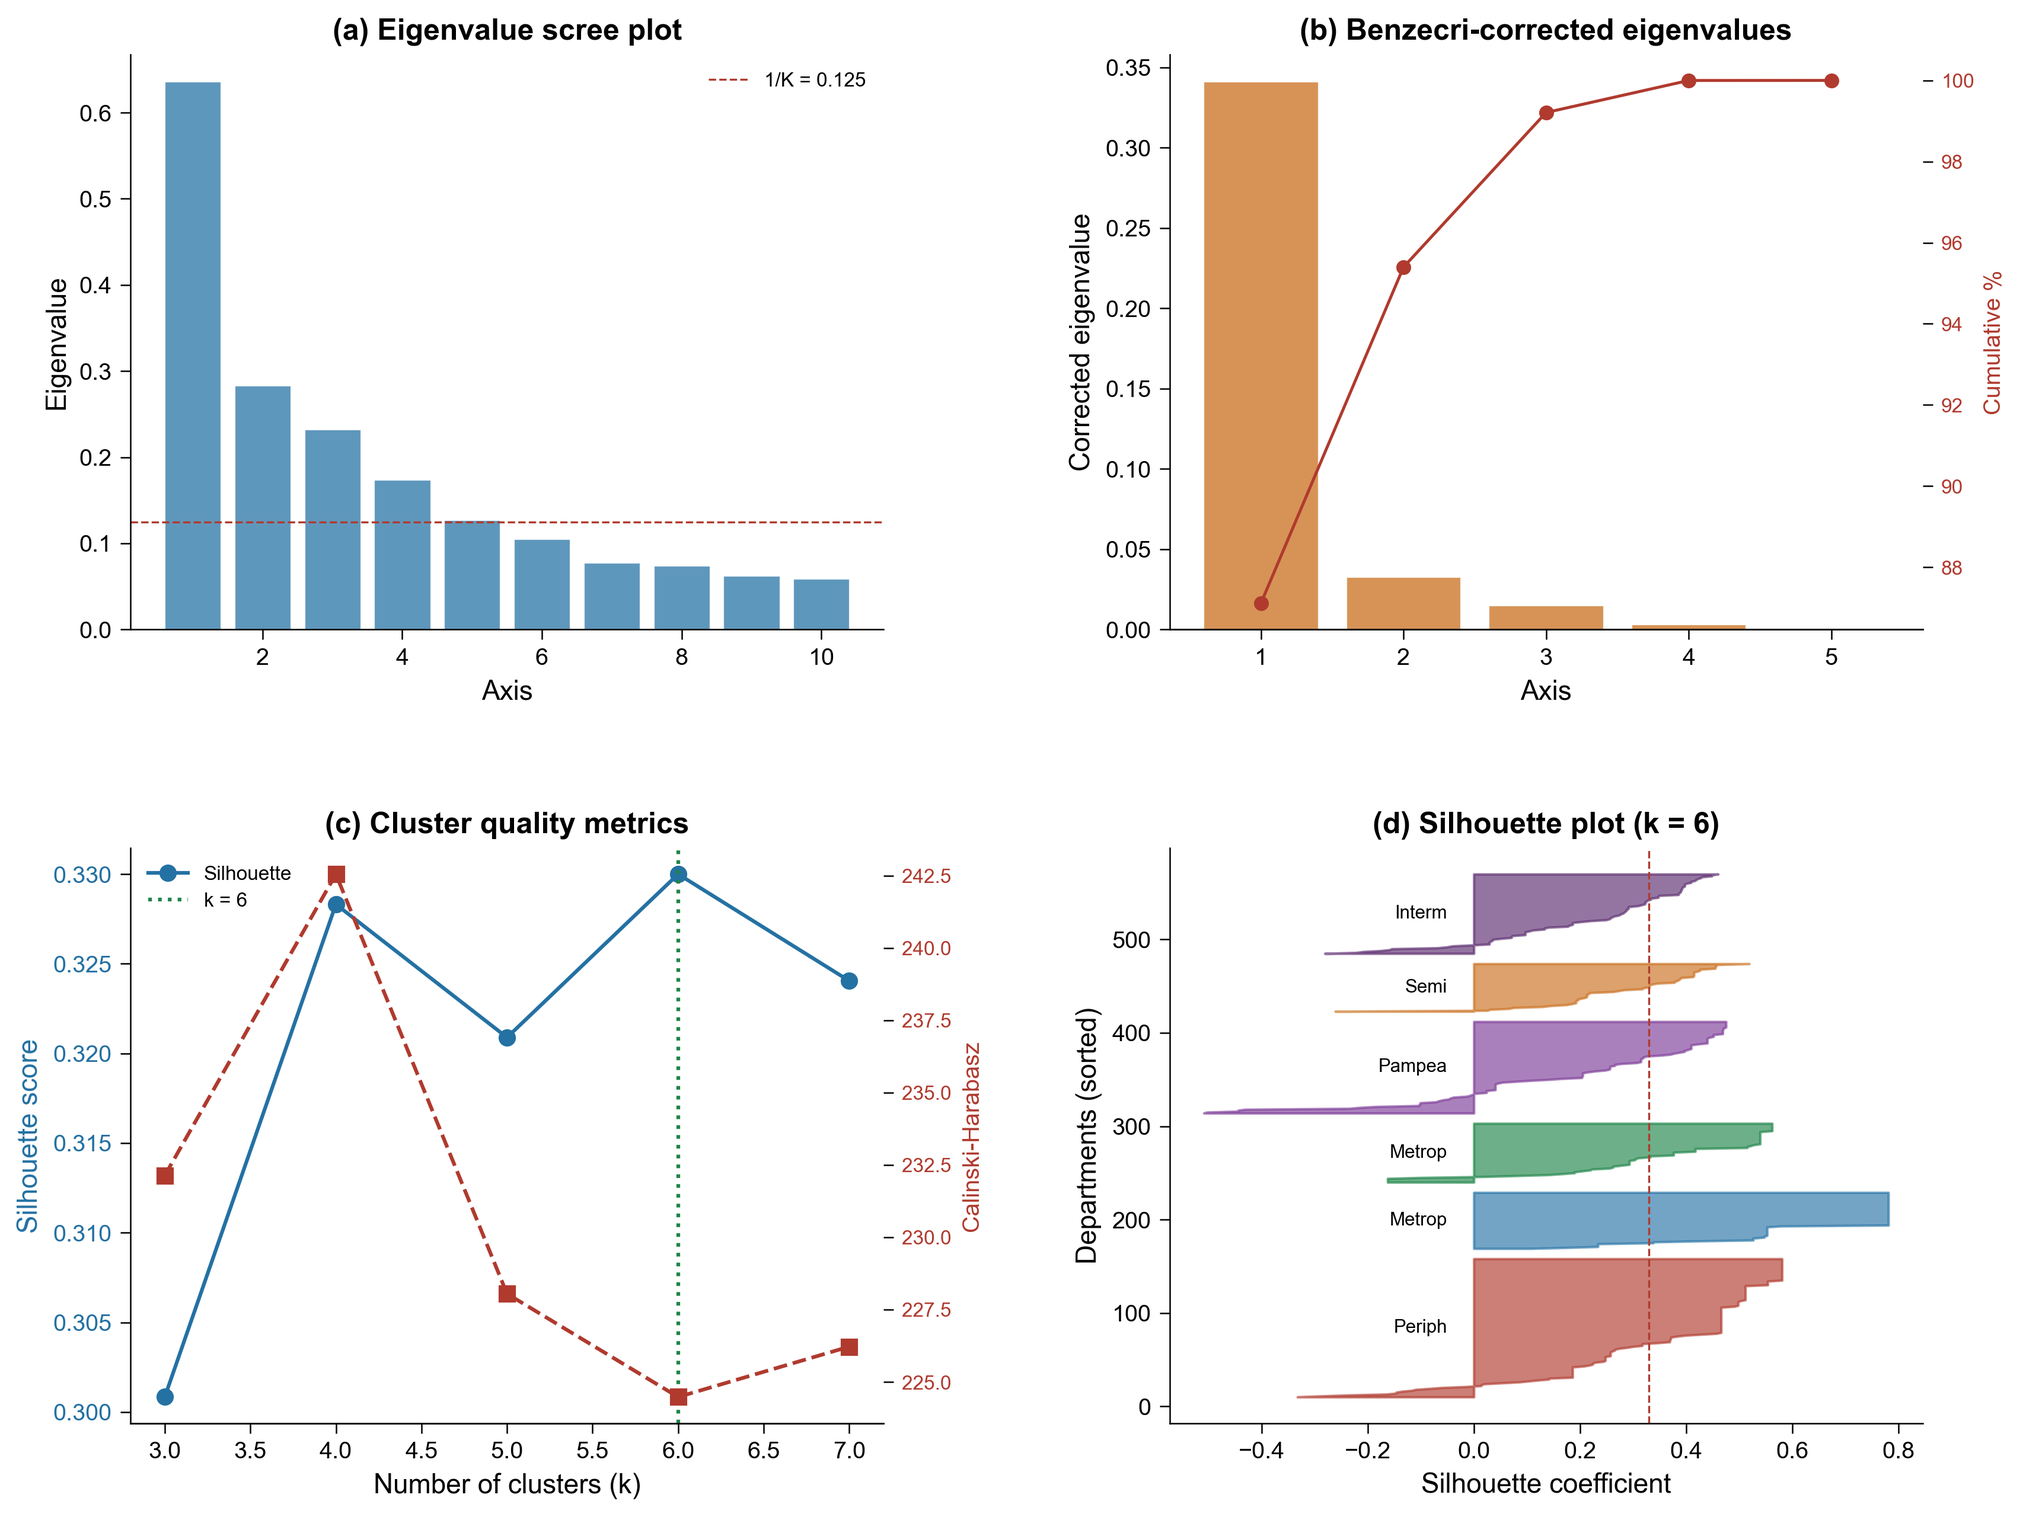
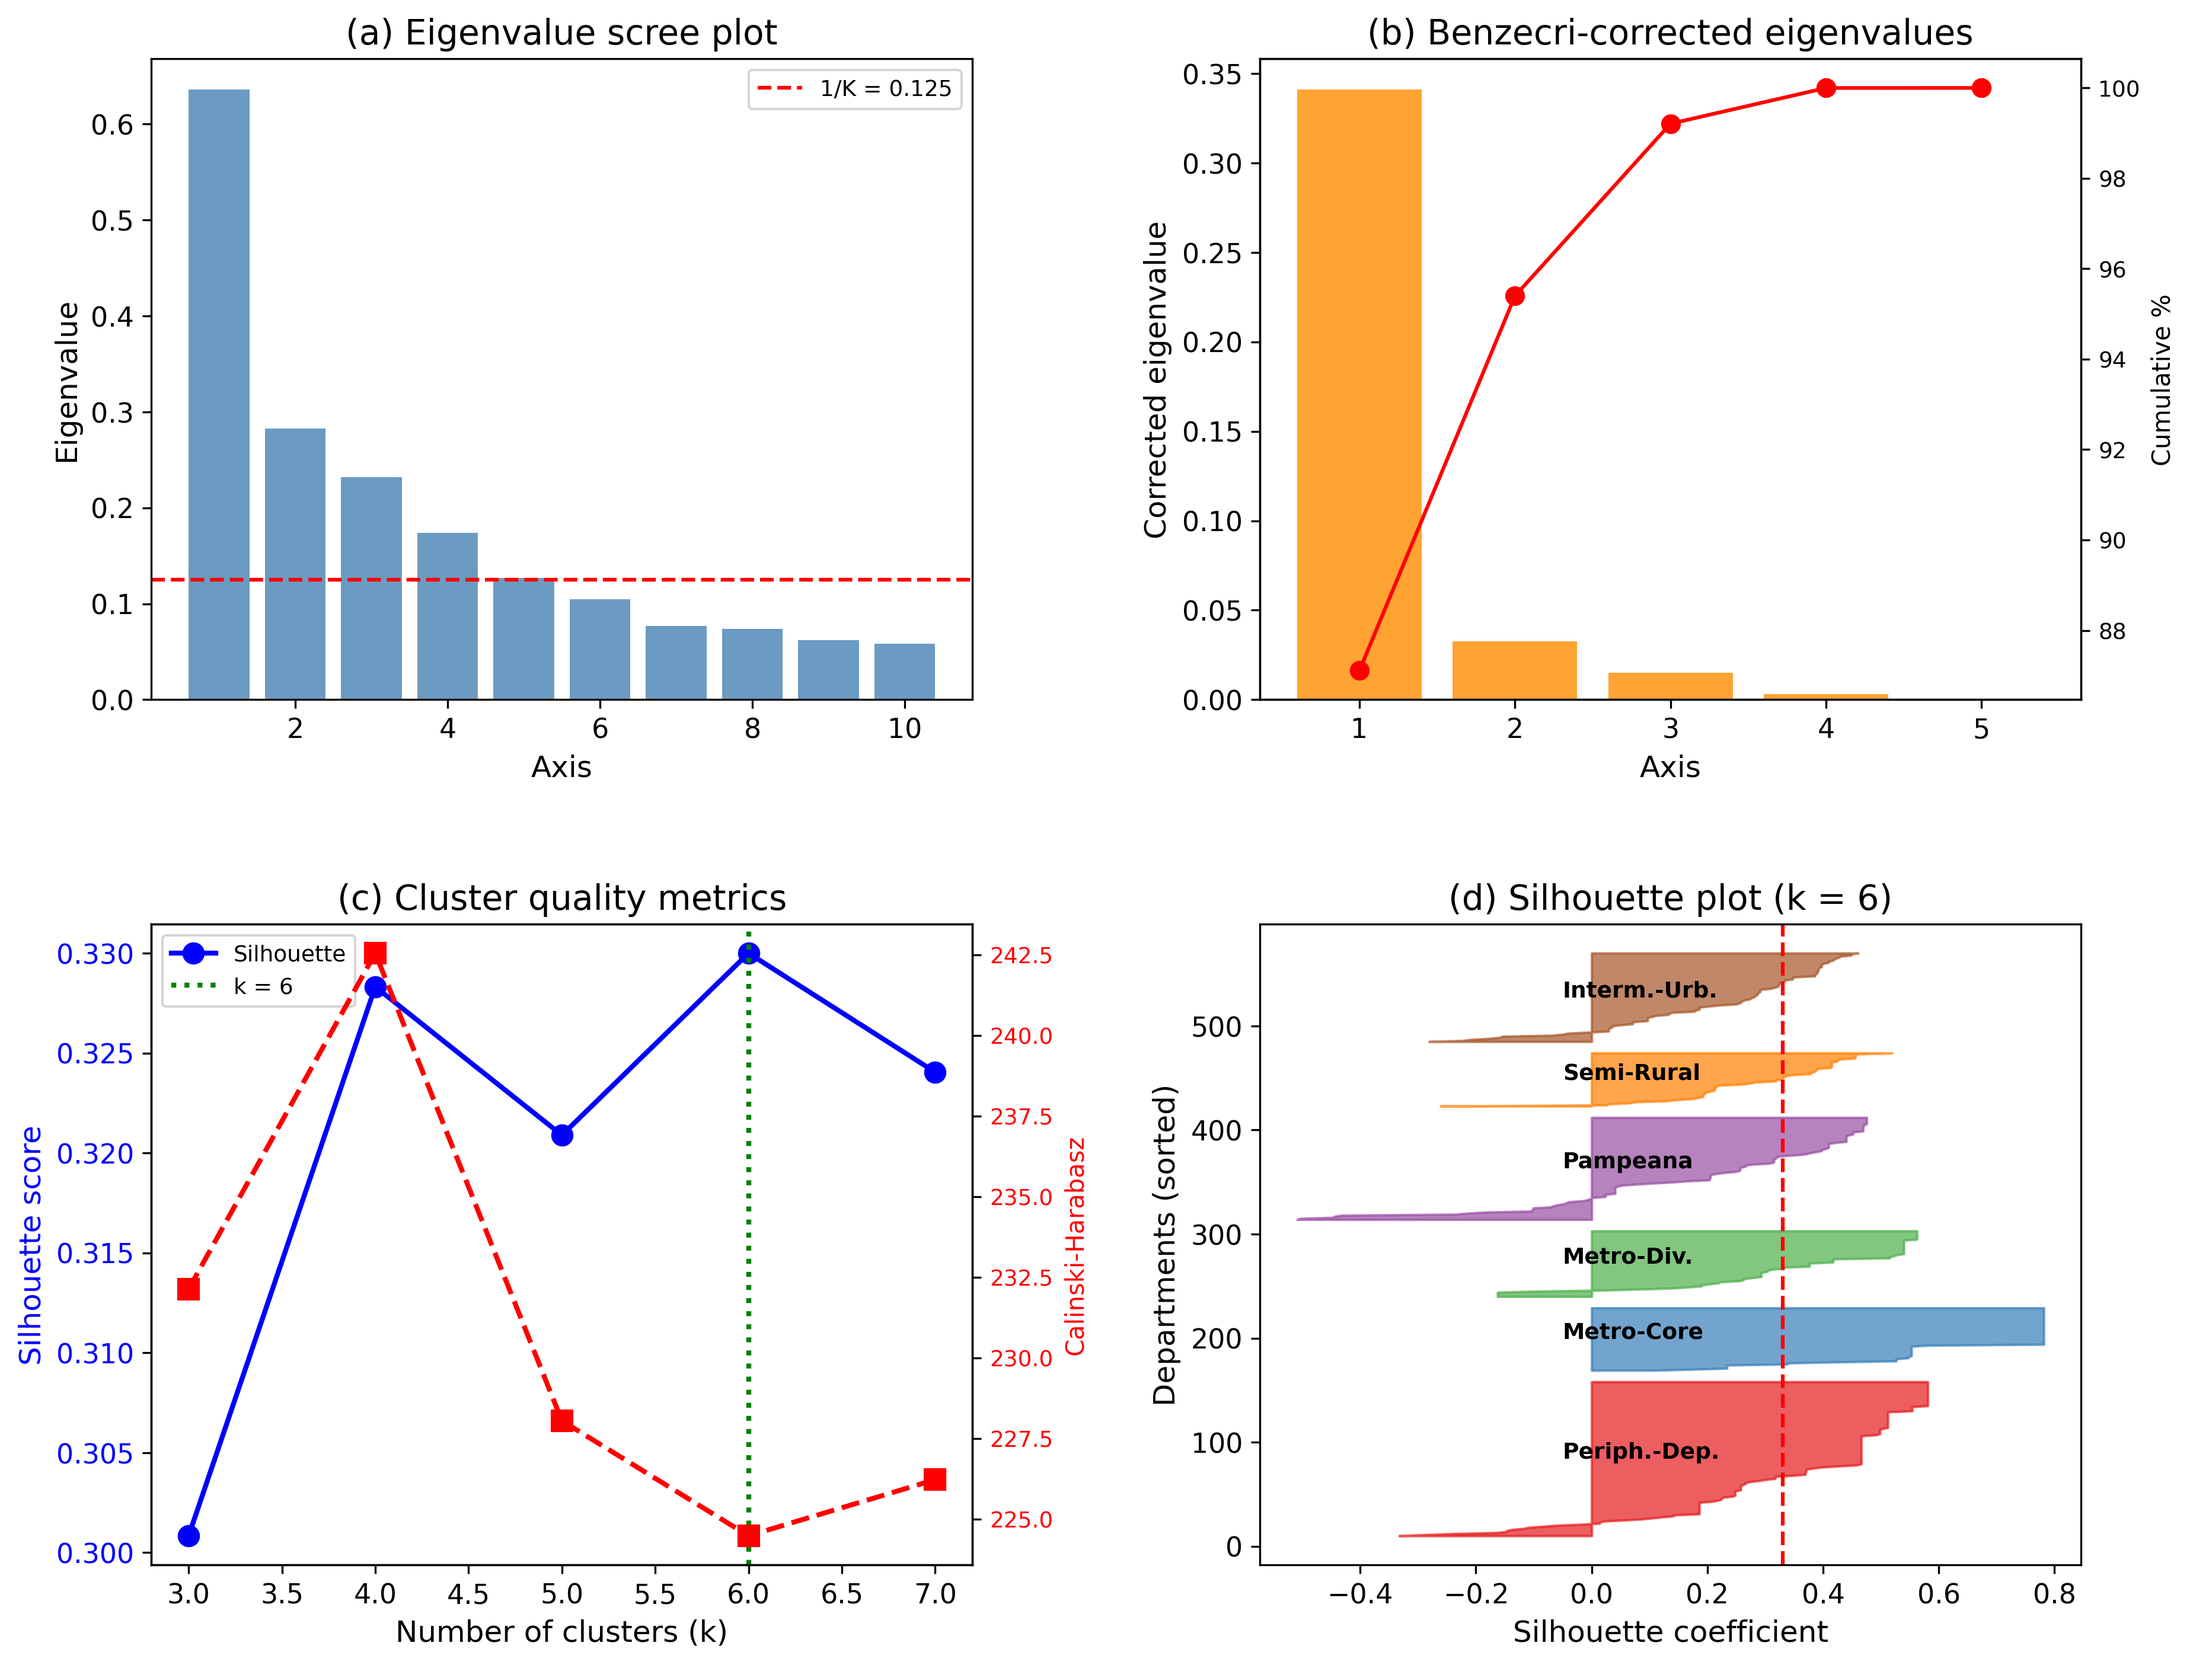
Fix RS submission: title, bundle robustness table in supplementary/, updated figures
- Correct article title (README.md H1, supplementary_tables.md) from JEG to RS version
- Add supplementary/table_s_bundle_robustness.csv (was only in data/)
- Updated figures: fig_02_mca_biplot, fig_03_cah_mca_clusters, fig_S2_diagnostics_panel, fig_panel_trajectories
- Updated scripts: 05_regenerate_figures.py, 09_eci_temporal_panel.py

diff --git a/scripts/05_regenerate_figures.py b/scripts/05_regenerate_figures.py
@@ -381,9 +381,6 @@ sc2 = ax2.scatter(
     alpha=0.7, edgecolors="grey", linewidths=0.5, zorder=2
 )
 
-cbar2 = plt.colorbar(sc2, ax=ax2, shrink=0.7, pad=0.02)
-cbar2.set_label("Product Complexity Index (PCI)", fontsize=STYLE["axis_label_size"])
-cbar2.ax.tick_params(labelsize=STYLE["tick_size"])
 
 # Label languages — select top/bottom by PCI plus notable ones
 top_pci = lang_stats.nlargest(8, "pci")["language"].tolist()
@@ -506,8 +503,8 @@ if texts3:
 
 pct1 = pct_inertia[0]
 pct2 = pct_inertia[1]
-ax3.set_xlabel(f"Dimension 1 ({pct1:.1f}% inertia)")
-ax3.set_ylabel(f"Dimension 2 ({pct2:.1f}% inertia)")
+ax3.set_xlabel(f"Axis 1 ({pct1:.1f}% inertia)")
+ax3.set_ylabel(f"Axis 2 ({pct2:.1f}% inertia)")
 ax3.axhline(0, color="grey", linewidth=0.5, linestyle="--")
 ax3.axvline(0, color="grey", linewidth=0.5, linestyle="--")
 
@@ -596,8 +593,8 @@ for c in sorted(df_mca["mca_cluster"].unique()):
     ax5.plot(cx, cy, marker="+", color=colour, markersize=14,
              markeredgewidth=2.5, zorder=4)
 
-ax5.set_xlabel(f"Dimension 1 ({pct_inertia[0]:.1f}% inertia)")
-ax5.set_ylabel(f"Dimension 2 ({pct_inertia[1]:.1f}% inertia)")
+ax5.set_xlabel(f"Axis 1 ({pct_inertia[0]:.1f}% inertia)")
+ax5.set_ylabel(f"Axis 2 ({pct_inertia[1]:.1f}% inertia)")
 ax5.axhline(0, color="grey", linewidth=0.5, linestyle="--")
 ax5.axvline(0, color="grey", linewidth=0.5, linestyle="--")
 ax5.legend(loc="best")
@@ -801,6 +798,14 @@ ax_c.legend(loc="upper left", fontsize=STYLE["small_annot_size"])
 # --- (d) Silhouette per sample ---
 ax_d = axes[1, 1]
 sample_sil = silhouette_samples(X_cah, labels_final)
+SHORT_SILHOUETTE = {
+    "Metropolitan-Core":        "Metro-Core",
+    "Metropolitan-Diversified": "Metro-Div.",
+    "Pampeana-Educated":        "Pampeana",
+    "Peripheral-Deprived":      "Periph.-Dep.",
+    "Semi-Rural-Active":        "Semi-Rural",
+    "Intermediate-Urban":       "Interm.-Urb.",
+}
 y_lower = 10
 for i in range(1, best_k + 1):
     cluster_sil = np.sort(sample_sil[labels_final == i])
@@ -811,7 +816,9 @@ for i in range(1, best_k + 1):
         np.arange(y_lower, y_upper), 0, cluster_sil,
         facecolor=colour, edgecolor=colour, alpha=0.7
     )
-    ax_d.text(-0.05, y_lower + 0.5 * size_i, f"C{i}",
+    label_full = cluster_labels.get(i, f"C{i}")
+    label_s = SHORT_SILHOUETTE.get(label_full, label_full[:12])
+    ax_d.text(-0.05, y_lower + 0.5 * size_i, label_s,
               fontsize=STYLE["small_annot_size"], fontweight="bold")
     y_lower = y_upper + 10
 

diff --git a/scripts/09_eci_temporal_panel.py b/scripts/09_eci_temporal_panel.py
@@ -254,11 +254,11 @@ CLUSTER_COLORS = {
 }
 CLUSTER_SHORT = {
     "Metropolitan-Core":       "Metro-Core",
-    "Metropolitan-Diversified":"Metro-Div",
-    "Pampeana-Educated":       "Pampeana-Educ",
-    "Intermediate-Urban":      "Intermediate",
-    "Peripheral-Deprived":     "Peripheral",
-    "Semi-Rural-Active":       "Semi-Rural",
+    "Metropolitan-Diversified":"Metro-Div.",
+    "Pampeana-Educated":       "Pamp.-Educ.",
+    "Intermediate-Urban":      "Interm.-Urban",
+    "Peripheral-Deprived":     "Periph.-Deprived",
+    "Semi-Rural-Active":       "Semi-Rural-Act.",
 }
 
 fig, axes = plt.subplots(1, 2, figsize=(13, 5))

diff --git a/supplementary/supplementary_tables.md b/supplementary/supplementary_tables.md
@@ -1,6 +1,6 @@
 # Supplementary Material
 
-## The Spatiality of Software: Subnational Economic Complexity from GitHub Data in Argentina
+## Software complexity and the accumulation of technical capabilities within a peripheral economy: a subnational typology of Argentina
 
 **Author:** Raimundo Elias Gomez
 
@@ -53,7 +53,7 @@ Complete ranking of 224 departments by ECI_software, with cluster assignment and
 
 ### Table S2. Cluster x Region Cross-Tabulation
 
-Cross-tabulation of six departmental types with six Argentine regions (chi-squared = 351.5, df = 25, *p* < 0.001, Cramer's *V* = 0.371).
+Cross-tabulation of six departmental types with six Argentine regions (chi-squared = 351.5, df = 25, *p* < 0.001, Cramér's *V* = 0.371).
 
 **File:** `table_S2_cluster_region_crosstab.csv`
 

diff --git a/README.md b/README.md
@@ -1,4 +1,4 @@
-# The Spatiality of Software: Subnational Economic Complexity from GitHub Data in Argentina
+# Software complexity and the accumulation of technical capabilities within a peripheral economy: a subnational typology of Argentina
 
 **Author:** Raimundo Elias Gomez
 **Affiliation:** CONICET / Facultad de Humanidades y Ciencias Sociales, Universidad Nacional de Misiones (UNaM)
